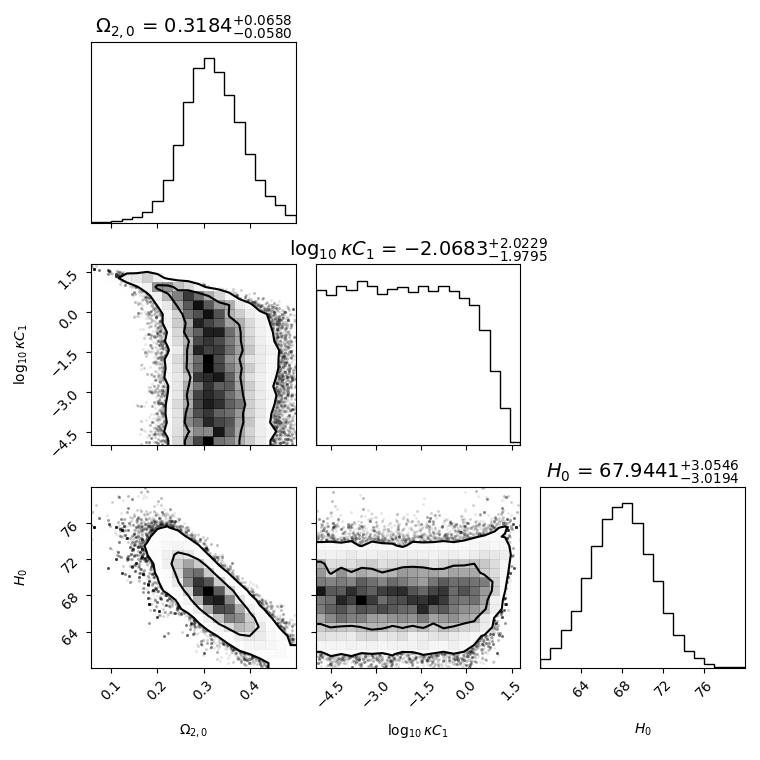
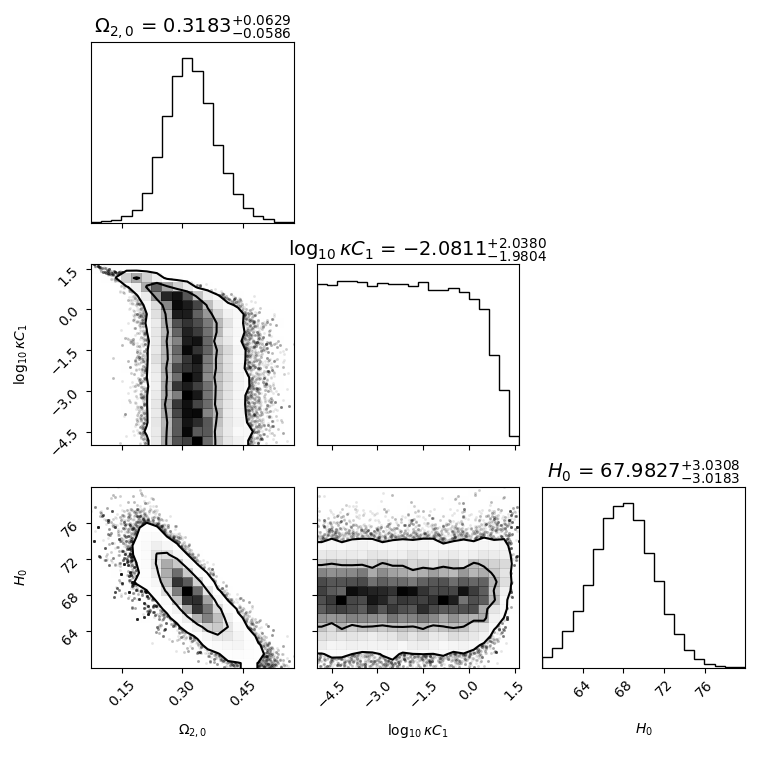
update ohd

diff --git a/OHD/result.py b/OHD/result.py
@@ -14,7 +14,7 @@ const_c = c.to('km/s').value
 
 # 先验值
 H0 = 70.0
-O20 = 0.26
+O20 = 0.28
 log_kC1 = -5.0
 
 # 从csv文件中读取数据
@@ -79,7 +79,7 @@ def lnlike(paras):
 # lnprior函数(先验概率函数)
 def lnprior(paras):
     O20, log_kC1, H0 = paras
-    if 0 < O20 < 0.5 and -5 < log_kC1 < 3 and 60 < H0 < 80:
+    if 0 < O20 < 0.7 and -5 < log_kC1 < 3 and 60 < H0 < 80:
         return 0.0
     return -np.inf
 
@@ -94,7 +94,7 @@ def lnprob(paras):
 def main():
     # 定义mcmc参量
     nll = lambda *args: -lnlike(*args)
-    initial = np.array([0.26, -2, 70]) # expected best values
+    initial = np.array([0.28, -2, 70]) # expected best values
     soln = scipy.optimize.minimize(nll, initial)
     pos = soln.x + 1e-4 * np.random.randn(50, 3)
     nwalkers, ndim = pos.shape
@@ -131,15 +131,15 @@ def main():
     N = 100
     chi2 = np.zeros([N, N])
     log_kC1_list = np.linspace(3, -5, N)
-    O20_list = np.linspace(0.0, 0.5, N)
+    O20_list = np.linspace(0.0, 0.6, N)
 
     for i in tqdm(range(N), position=0, desc="O20", leave=False):
         for j in tqdm(range(N), position=1, desc="log_kC1", leave=False):
             log_kC1 = log_kC1_list[j]
             O20 = O20_list[i]
             # 较大值截断
-            if chi_square(log_kC1, O20, H0) > 200:
-                chi2[j][i] = 200
+            if chi_square(log_kC1, O20, H0) > 50:
+                chi2[j][i] = 50
             else:
                 chi2[j][i] = chi_square(log_kC1, O20, H0)
 

diff --git a/README.md b/README.md
@@ -27,8 +27,7 @@
 ### 关于OHD文件夹
 1. 数据来源见参考文献,数据文件为[.csv](/OHD/OHD.csv)
 2. 数据只采用CC方法
-3. [test.py](/OHD/test.py)测试能否限制H0 -> [test.png](/OHD/test.png)
-4. [result.py](/OHD/result.py)完成全部内容的实现,包括mcmc与传统的格点法(格点法用于精细化作图)
+3. [result.py](/OHD/result.py)完成全部内容的实现,包括mcmc与传统的格点法(格点法用于精细化作图)
 
 ### 关于SNe Ia文件夹
 1. 数据来源Pantheon,数据文件为[.txt](/SNe%20Ia/Pantheon.txt) & [.csv](/SNe%20Ia/Pantheon.csv)
